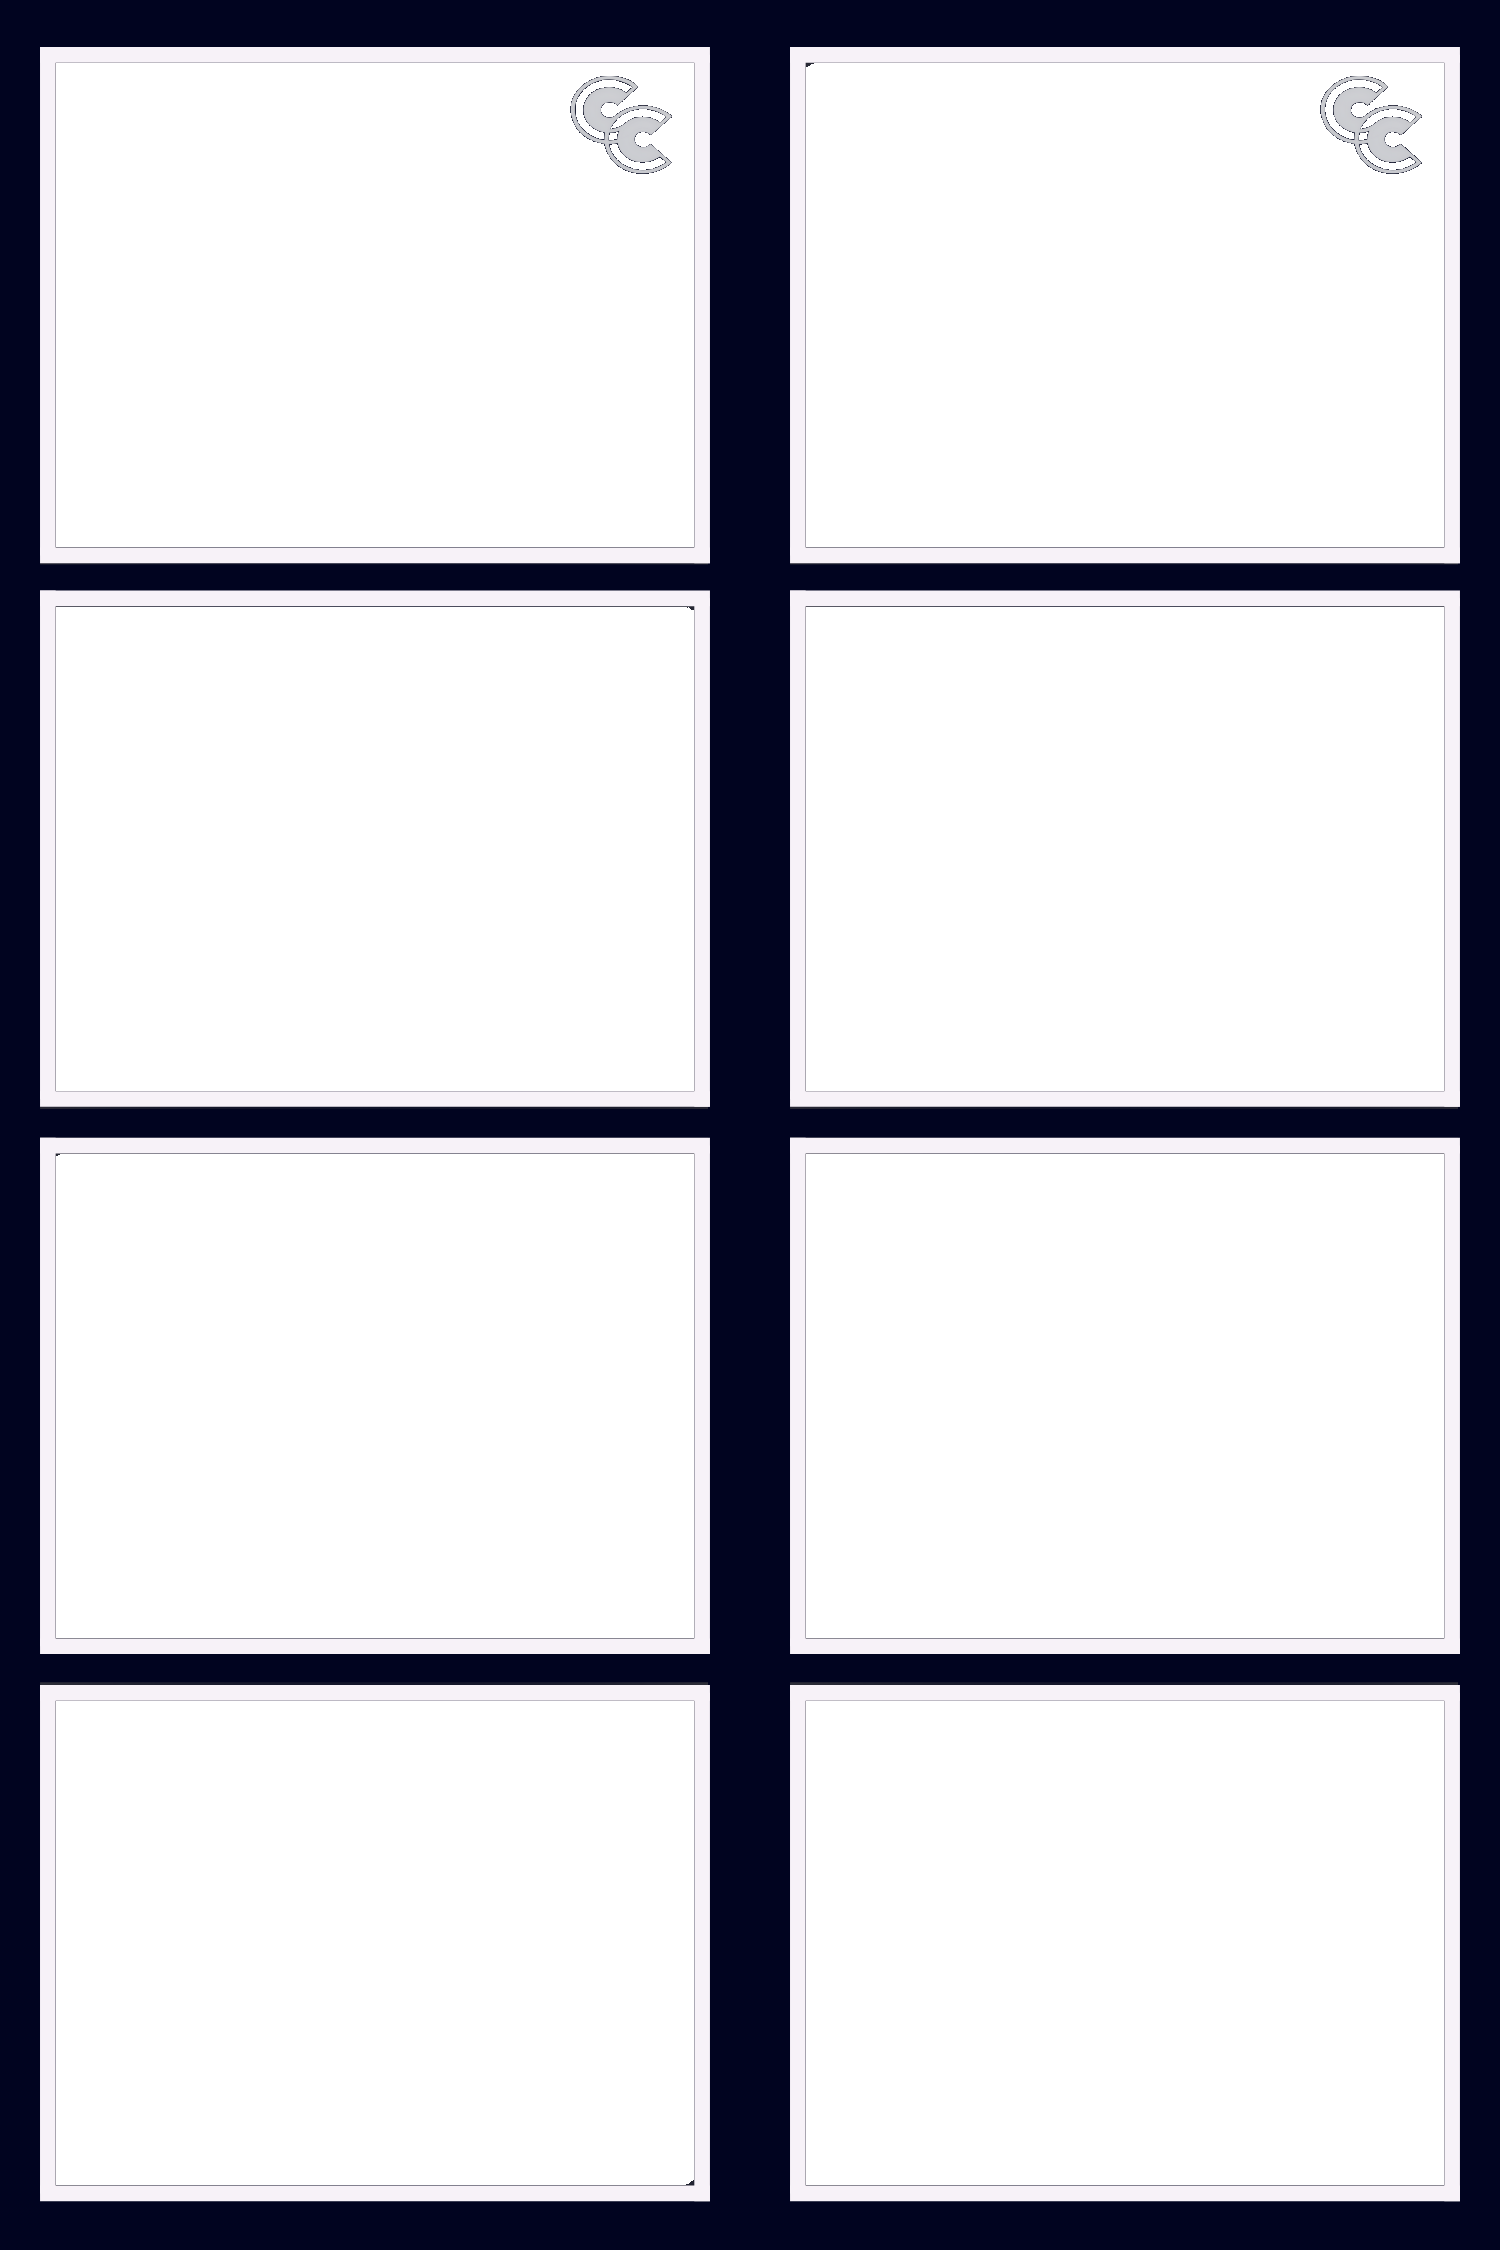
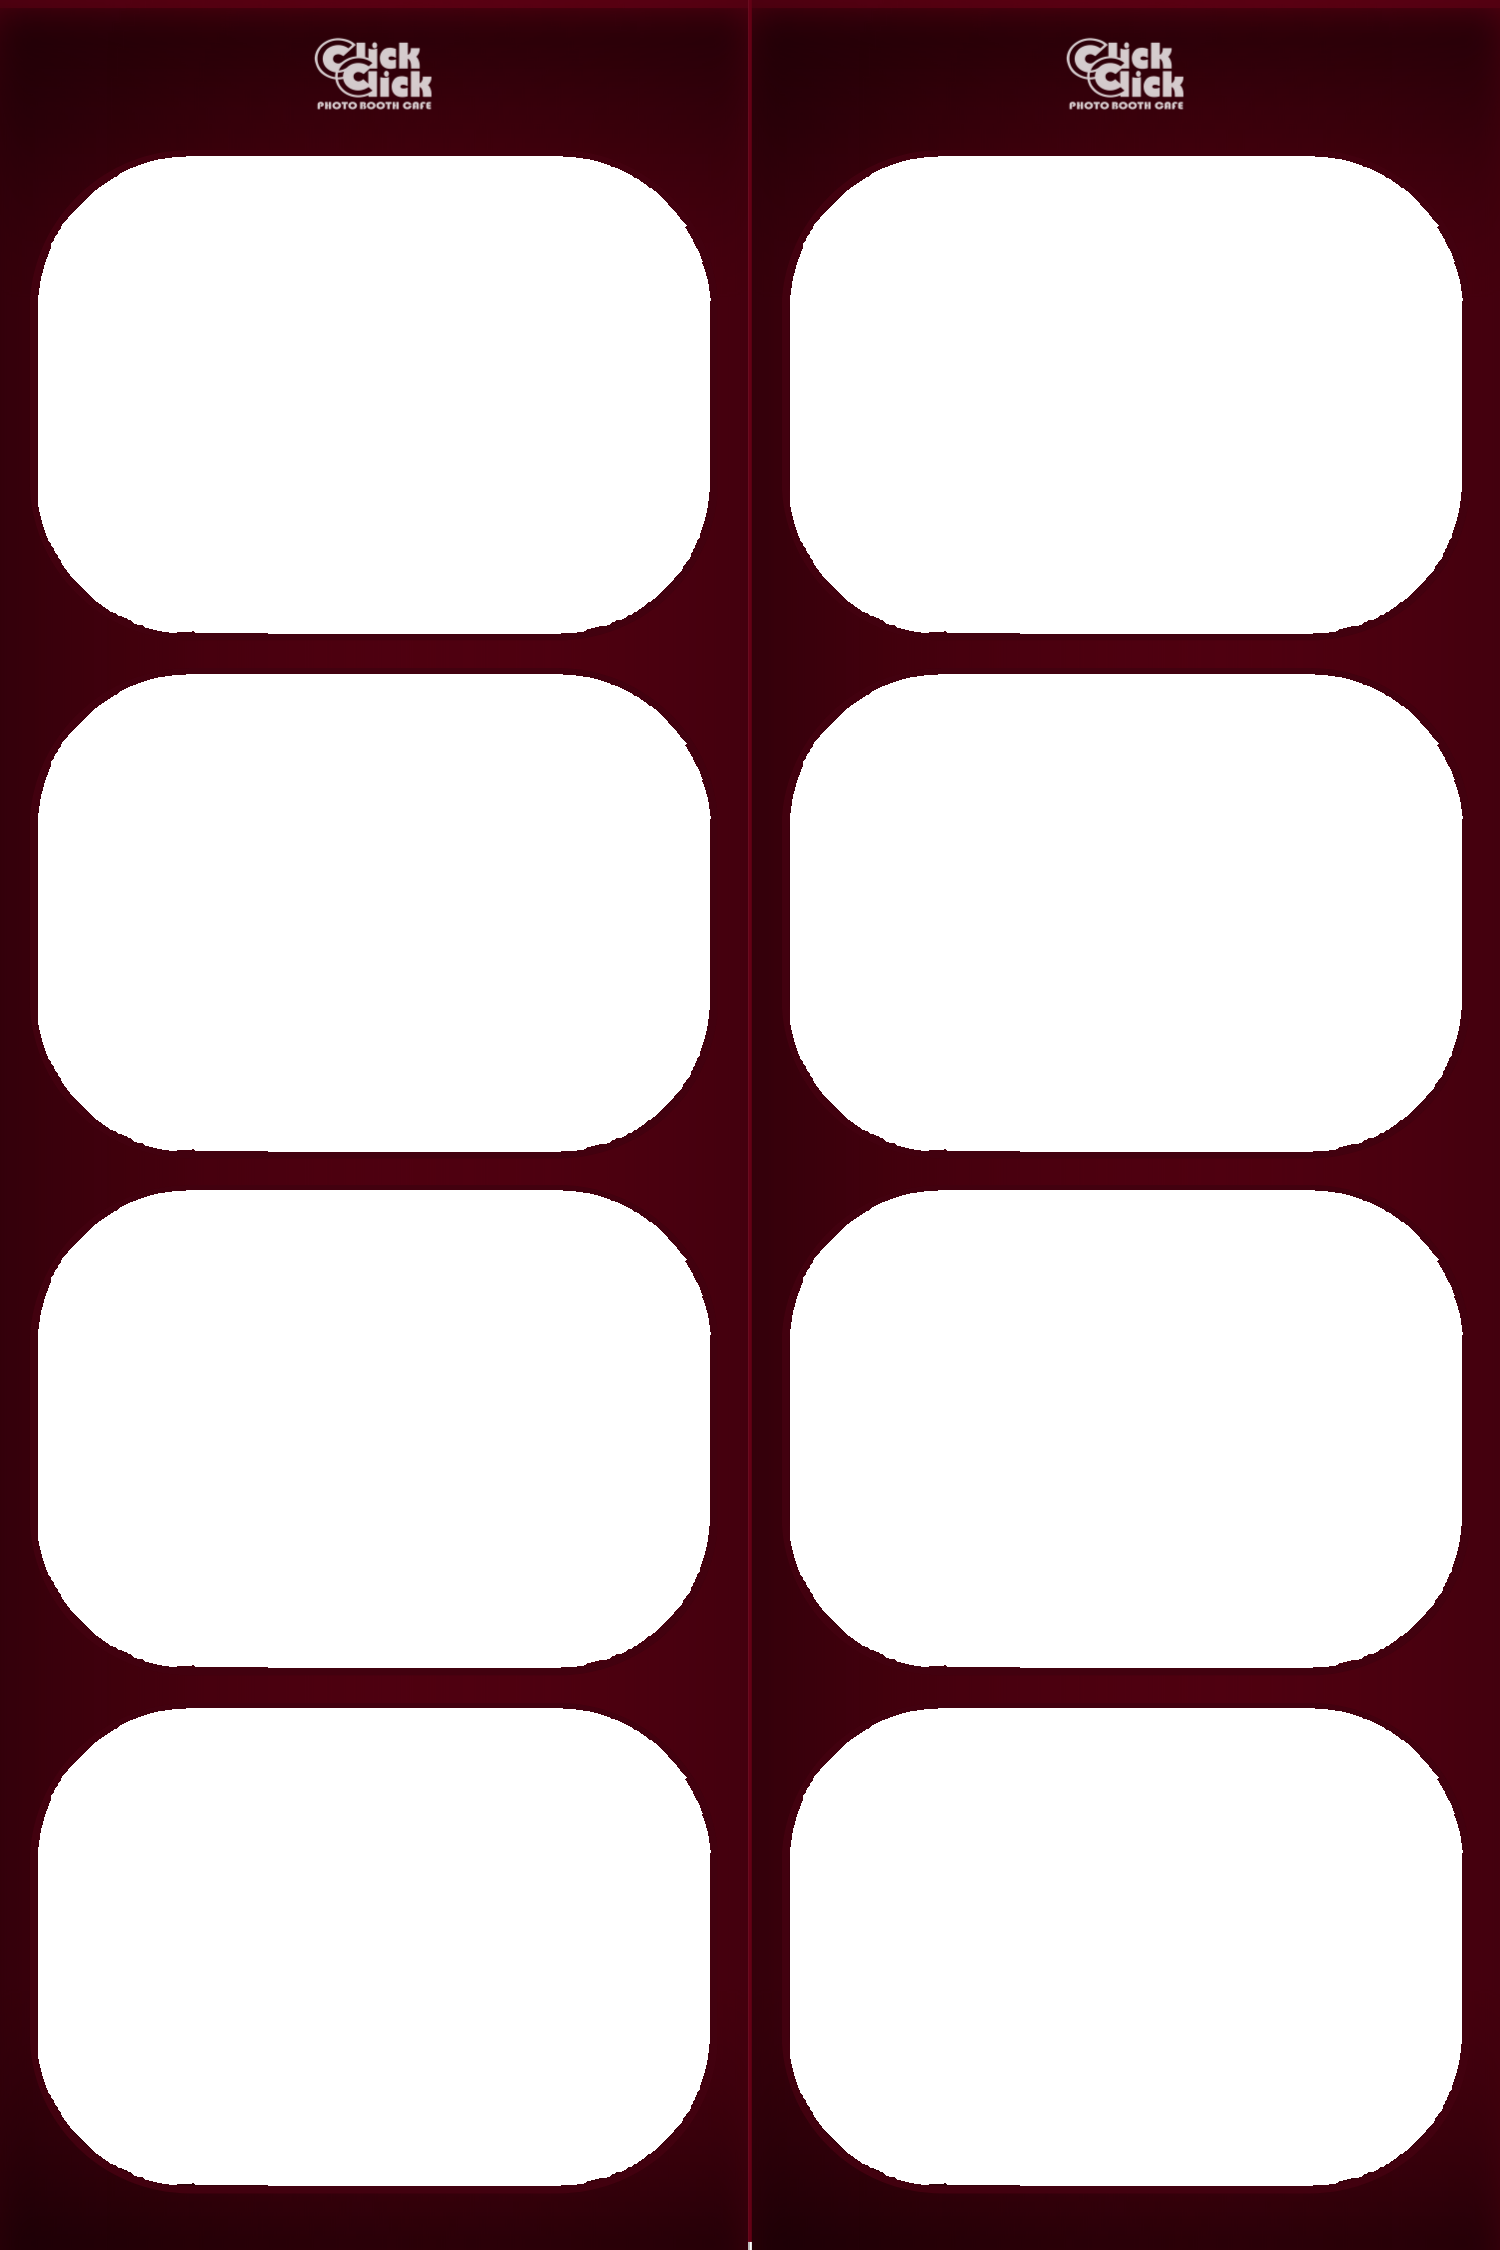
feat: faye popup

diff --git a/lib/features/classic/presentation/constants/frame_constants.dart b/lib/features/classic/presentation/constants/frame_constants.dart
@@ -51,70 +51,70 @@ class FrameDefinition {
 }
 
 class FrameConstants {
-  static const fourFrameIdc = FrameLayout(
+  static const fourFrameFaye = FrameLayout(
     type: FrameLayoutType.fourPhotos,
     leftColumnPositions: [
       FramePhotoPosition(
-        left: 6,
-        top: 3,
-        width: 124,
-        height: 100,
+        left: 7,
+        top: 14,
+        width: 140,
+        height: 85,
         rotationDegrees: 0.0,
       ),
       FramePhotoPosition(
-        left: 6,
-        top: 108,
-        width: 124,
-        height: 100,
+        left: 7,
+        top: 107,
+        width: 140,
+        height: 85,
         rotationDegrees: 0.0,
       ),
       FramePhotoPosition(
-        left: 6,
-        top: 212,
-        width: 124,
-        height: 100,
+        left: 7,
+        top: 200,
+        width: 140,
+        height: 85,
         rotationDegrees: 0.0,
       ),
       FramePhotoPosition(
-        left: 6,
-        top: 317,
-        width: 124,
-        height: 100,
+        left: 7,
+        top: 295,
+        width: 140,
+        height: 85,
         rotationDegrees: 0.0,
       ),
     ],
     rightColumnPositions: [
       FramePhotoPosition(
-        left: 159.5,
-        top: 3,
-        width: 124,
-        height: 100,
+        left: 159,
+        top: 14,
+        width: 140,
+        height: 85,
         rotationDegrees: 0.0,
       ),
       FramePhotoPosition(
-        left: 159.5,
-        top: 108,
-        width: 124,
-        height: 100,
+        left: 159,
+        top: 107,
+        width: 140,
+        height: 85,
         rotationDegrees: 0.0,
       ),
       FramePhotoPosition(
-        left: 159.5,
-        top: 212,
-        width: 124,
-        height: 100,
+        left: 159,
+        top: 200,
+        width: 140,
+        height: 85,
         rotationDegrees: 0.0,
       ),
       FramePhotoPosition(
-        left: 159.5,
-        top: 317,
-        width: 124,
-        height: 100,
+        left: 159,
+        top: 295,
+        width: 140,
+        height: 85,
         rotationDegrees: 0.0,
       ),
     ],
     topOffset: 14,
-    frameAssetPath: 'assets/frames/frame_idc.png',
+    frameAssetPath: 'assets/frames/frame_faye.png',
   );
 
   // Frame Definitions
@@ -125,61 +125,61 @@ class FrameConstants {
     type: FrameLayoutType.fourPhotos,
     leftColumnPositions: [
       FramePhotoPosition(
-        left: 0,
-        top: 3.5,
-        width: 154,
-        height: 120,
+        left: 7,
+        top: 30,
+        width: 138,
+        height: 100,
         rotationDegrees: 0.0,
       ),
       FramePhotoPosition(
-        left: 0,
-        top: 113,
-        width: 154,
-        height: 120,
+        left: 7,
+        top: 136,
+        width: 138,
+        height: 100,
         rotationDegrees: 0.0,
       ),
       FramePhotoPosition(
-        left: 0,
-        top: 224,
-        width: 154,
-        height: 120,
+        left: 7,
+        top: 241,
+        width: 138,
+        height: 100,
         rotationDegrees: 0.0,
       ),
       FramePhotoPosition(
-        left: 0,
-        top: 332,
-        width: 154,
-        height: 120,
+        left: 7,
+        top: 347,
+        width: 138,
+        height: 100,
         rotationDegrees: 0.0,
       ),
     ],
     rightColumnPositions: [
       FramePhotoPosition(
-        left: 151,
-        top: 3.5,
-        width: 154,
-        height: 120,
+        left: 160,
+        top: 30,
+        width: 138,
+        height: 100,
         rotationDegrees: 0.0,
       ),
       FramePhotoPosition(
-        left: 151,
-        top: 113,
-        width: 154,
-        height: 120,
+        left: 160,
+        top: 136,
+        width: 138,
+        height: 100,
         rotationDegrees: 0.0,
       ),
       FramePhotoPosition(
-        left: 151,
-        top: 224,
-        width: 154,
-        height: 120,
+        left: 160,
+        top: 241,
+        width: 138,
+        height: 100,
         rotationDegrees: 0.0,
       ),
       FramePhotoPosition(
-        left: 151,
-        top: 332,
-        width: 154,
-        height: 120,
+        left: 160,
+        top: 347,
+        width: 138,
+        height: 100,
         rotationDegrees: 0.0,
       ),
     ],
@@ -197,11 +197,11 @@ class FrameConstants {
   );
 
   static const FrameDefinition fourByFourFrameThree = FrameDefinition(
-    id: '4by4_frame_idc',
-    name: 'Akwave Frame',
-    description: 'Summertide Signals',
+    id: '4by4_frame_faye',
+    name: 'Frame for Faye',
+    description: '',
     supportedLayouts: [FrameLayoutType.fourPhotos],
-    layouts: {FrameLayoutType.fourPhotos: fourFrameIdc},
+    layouts: {FrameLayoutType.fourPhotos: fourFrameFaye},
     previewWidgetName: 'FourByFourFramePreview',
   );
 
